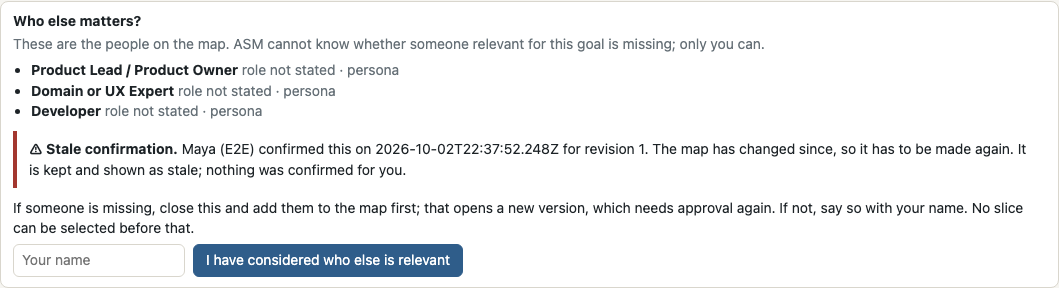
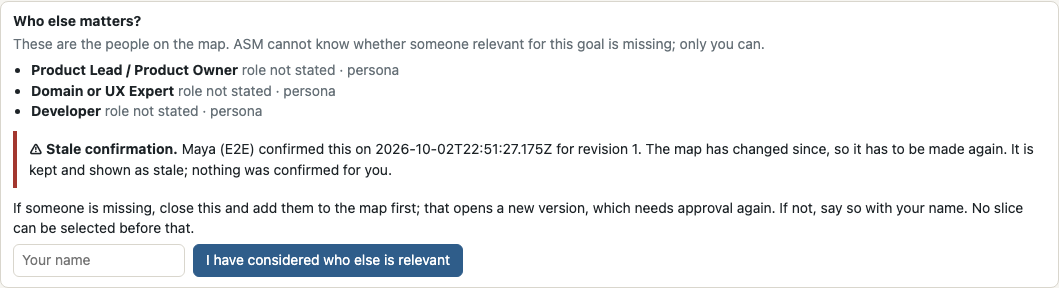
Refresh the checked-in screenshots: stale summary and re-entry scenarios (ASM-20)
rtk npm docs:refresh at the previous commit.

Changed region(s): [[0.4363, 0.5, 0.9972, 0.5625], [0.0312, 0.5625, 0.3739, 0.625]]

diff --git a/docs/examples/asm.work-order.exception.md b/docs/examples/asm.work-order.exception.md
@@ -1,6 +1,6 @@
 # Work order: Steps shared between personas
 
-Slice `slice-shared-steps` of ASM – Agentic Story Mapping, revision 1 (`1b703fb4`).
+Slice `slice-shared-steps` of ASM – Agentic Story Mapping, revision 1 (`61eef032`).
 
 Work order contract: `asm.execution-brief`, briefVersion 3.
 
@@ -10,10 +10,10 @@ Software teams without prior AI experience can move from product discussion to a
 
 ## VERIFIED / APPROVED CONTEXT
 
-- Approved: revision 1 by Maya (E2E) at 2026-10-02T22:37:42.970Z.
-- Who else matters: considered by Maya (E2E) at 2026-10-02T22:37:43.101Z. A named human confirmed that they considered who else is relevant for the goal. That is what they did; it does not say the people on the map are complete.
-- Slice selected by Maya (E2E) at 2026-10-02T22:37:43.154Z (candidate `f66ec7d4`, derivation rules version 2).
-- Value: VALUE_EXCEPTION_ACCEPTED. Exception accepted by Maya (E2E) at 2026-10-02T22:37:43.469Z: “The hand-over points have to work before we can observe which need they serve.” No step of this slice references a need. A named human authorized it anyway. That is a decision under uncertainty, not proof that the slice has business value.
+- Approved: revision 1 by Maya (E2E) at 2026-10-02T22:51:12.618Z.
+- Who else matters: considered by Maya (E2E) at 2026-10-02T22:51:12.765Z. A named human confirmed that they considered who else is relevant for the goal. That is what they did; it does not say the people on the map are complete.
+- Slice selected by Maya (E2E) at 2026-10-02T22:51:12.831Z (candidate `f66ec7d4`, derivation rules version 2).
+- Value: VALUE_EXCEPTION_ACCEPTED. Exception accepted by Maya (E2E) at 2026-10-02T22:51:13.163Z: “The hand-over points have to work before we can observe which need they serve.” No step of this slice references a need. A named human authorized it anyway. That is a decision under uncertainty, not proof that the slice has business value.
 - Verified: nothing. Approved means a named human approved the narrative. ASM has verified nothing: no behaviour described here has been built or tested.
 
 Why this slice:
@@ -110,5 +110,5 @@ A draft derived from the map. A human has to confirm it before it binds anyone.
 
 - Product: ASM – Agentic Story Mapping (`asm`), schema version 1
 - Revision: 1 (approved)
-- Approved by: Maya (E2E) at 2026-10-02T22:37:42.970Z
-- Map fingerprint: `1b703fb4`
+- Approved by: Maya (E2E) at 2026-10-02T22:51:12.618Z
+- Map fingerprint: `61eef032`

diff --git a/docs/examples/asm.work-order.md b/docs/examples/asm.work-order.md
@@ -1,6 +1,6 @@
 # Work order: Thread to “Export execution-ready work”
 
-Slice `slice-outcome-thread` of ASM – Agentic Story Mapping, revision 3 (`e380cc3c`).
+Slice `slice-outcome-thread` of ASM – Agentic Story Mapping, revision 3 (`174c7d63`).
 
 Work order contract: `asm.execution-brief`, briefVersion 3.
 
@@ -10,9 +10,9 @@ Software teams without prior AI experience can move from product discussion to a
 
 ## VERIFIED / APPROVED CONTEXT
 
-- Approved: revision 3 by Maya (E2E) at 2026-10-02T22:37:41.059Z.
-- Who else matters: considered by Maya (E2E) at 2026-10-02T22:37:41.375Z. A named human confirmed that they considered who else is relevant for the goal. That is what they did; it does not say the people on the map are complete.
-- Slice selected by Maya (E2E) at 2026-10-02T22:37:41.624Z (candidate `ef5f52e6`, derivation rules version 2).
+- Approved: revision 3 by Maya (E2E) at 2026-10-02T22:51:10.441Z.
+- Who else matters: considered by Maya (E2E) at 2026-10-02T22:51:10.808Z. A named human confirmed that they considered who else is relevant for the goal. That is what they did; it does not say the people on the map are complete.
+- Slice selected by Maya (E2E) at 2026-10-02T22:51:11.120Z (candidate `ef5f52e6`, derivation rules version 2).
 - Value: VALUE_RESOLVED (`need-shared-narrative`, `need-approve-meaning`, `need-buildable-slice`, `need-stable-references`). The slice references at least one need on the map. ASM has not measured any business value.
 - Verified: nothing. Approved means a named human approved the narrative. ASM has verified nothing: no behaviour described here has been built or tested.
 
@@ -102,5 +102,5 @@ A draft derived from the map. A human has to confirm it before it binds anyone.
 
 - Product: ASM – Agentic Story Mapping (`asm`), schema version 1
 - Revision: 3 (approved)
-- Approved by: Maya (E2E) at 2026-10-02T22:37:41.059Z
-- Map fingerprint: `e380cc3c`
+- Approved by: Maya (E2E) at 2026-10-02T22:51:10.441Z
+- Map fingerprint: `174c7d63`
